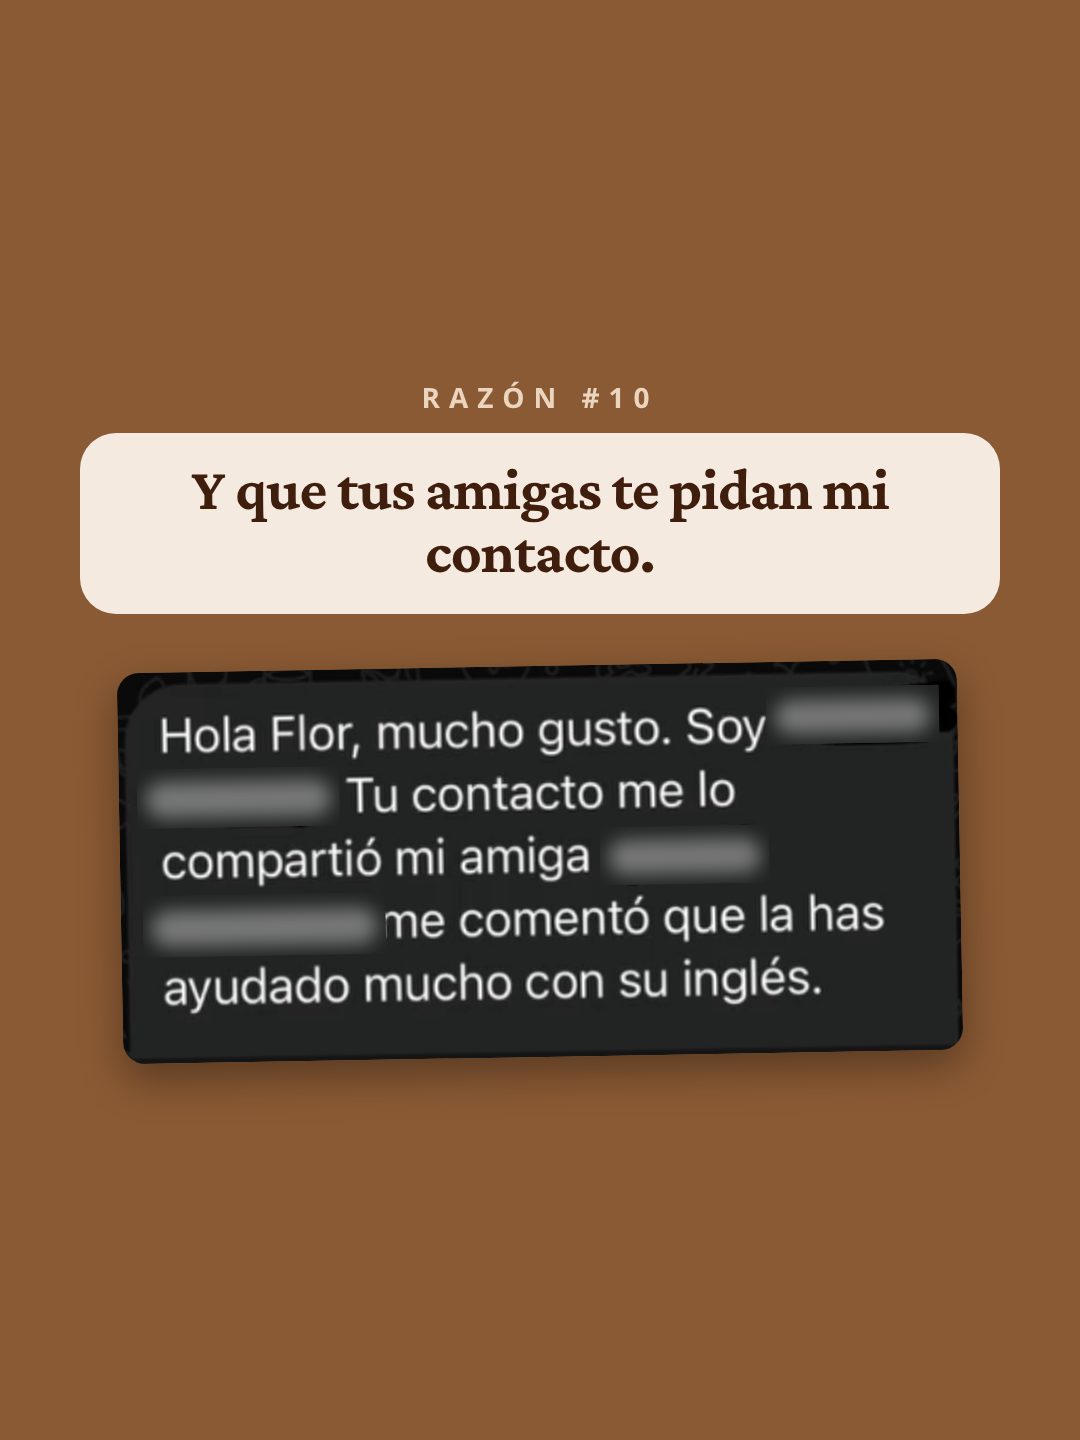
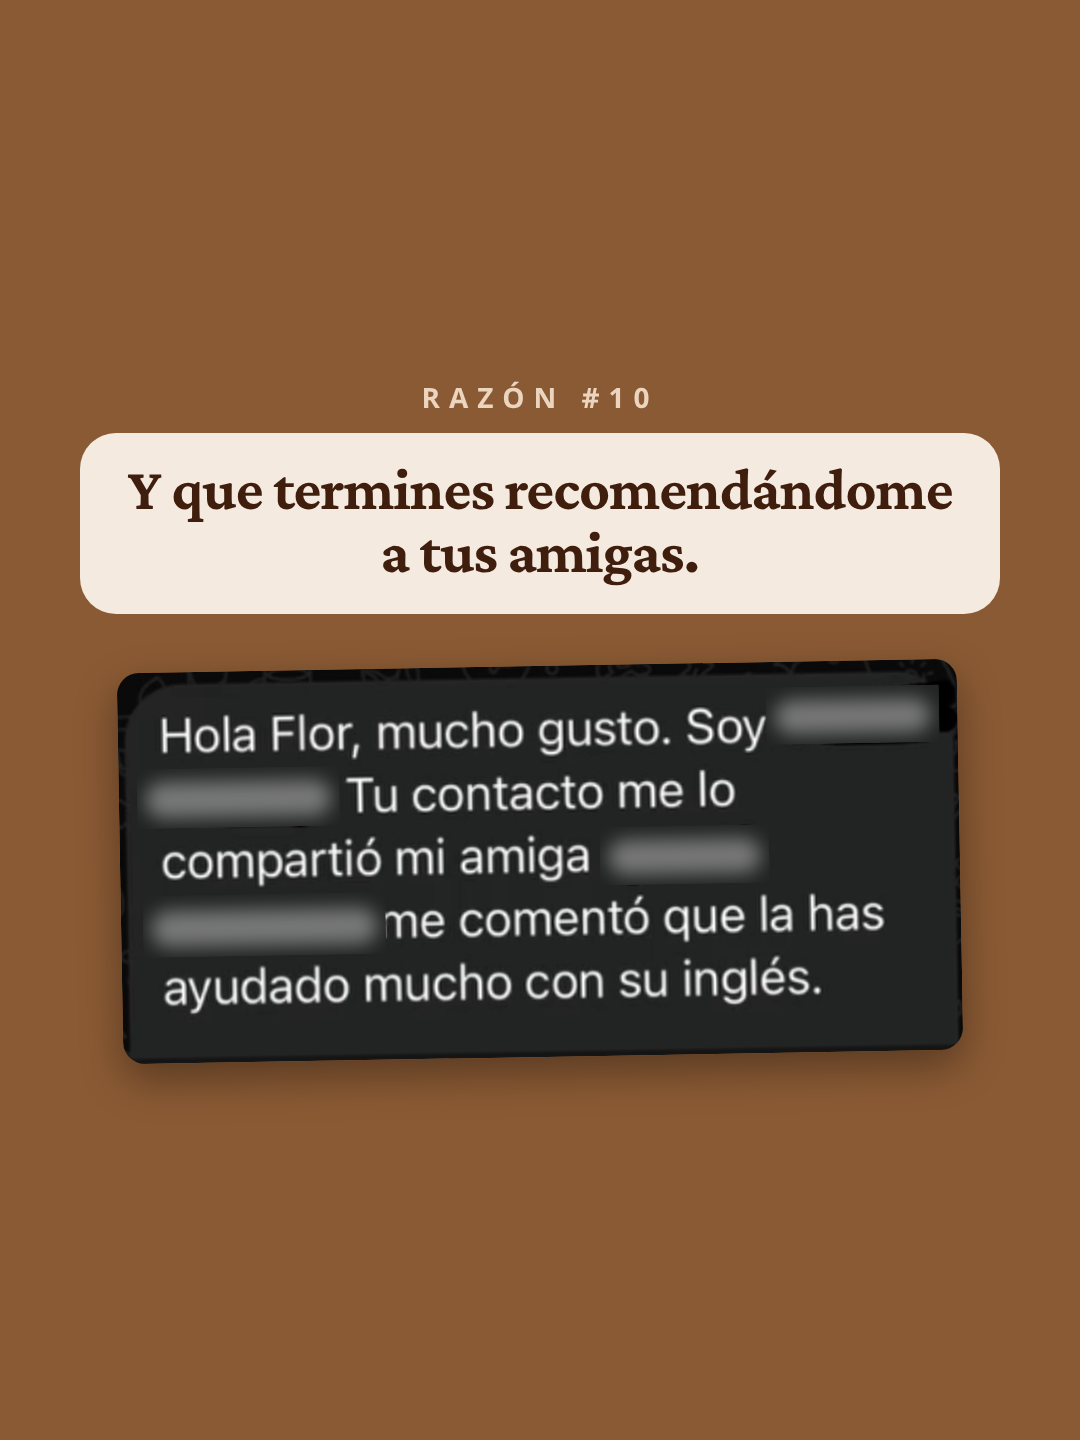
Wins carousel: reason 10 says students recommend Flor
Claude-Session: https://claude.ai/code/session_01Hi7csQukkGFDpL2WZ2kfrm

Changed region(s): [[0.1222, 0.3125, 0.8861, 0.4062]]

diff --git a/carruseles/serie-eterna-alumna/c-wins/index.html b/carruseles/serie-eterna-alumna/c-wins/index.html
@@ -138,7 +138,7 @@ body{background:#777}
 
 <section class="slide" id="s11">
   <p class="tag">RAZÓN #10</p>
-  <p class="pill s">Y que tus amigas te pidan mi contacto.</p>
+  <p class="pill s">Y que termines recomendándome a tus amigas.</p>
   <div class="gap"></div>
   <img class="shot r3" src="img/recomendacion-2.png" style="width:840px" alt="">
 </section>
